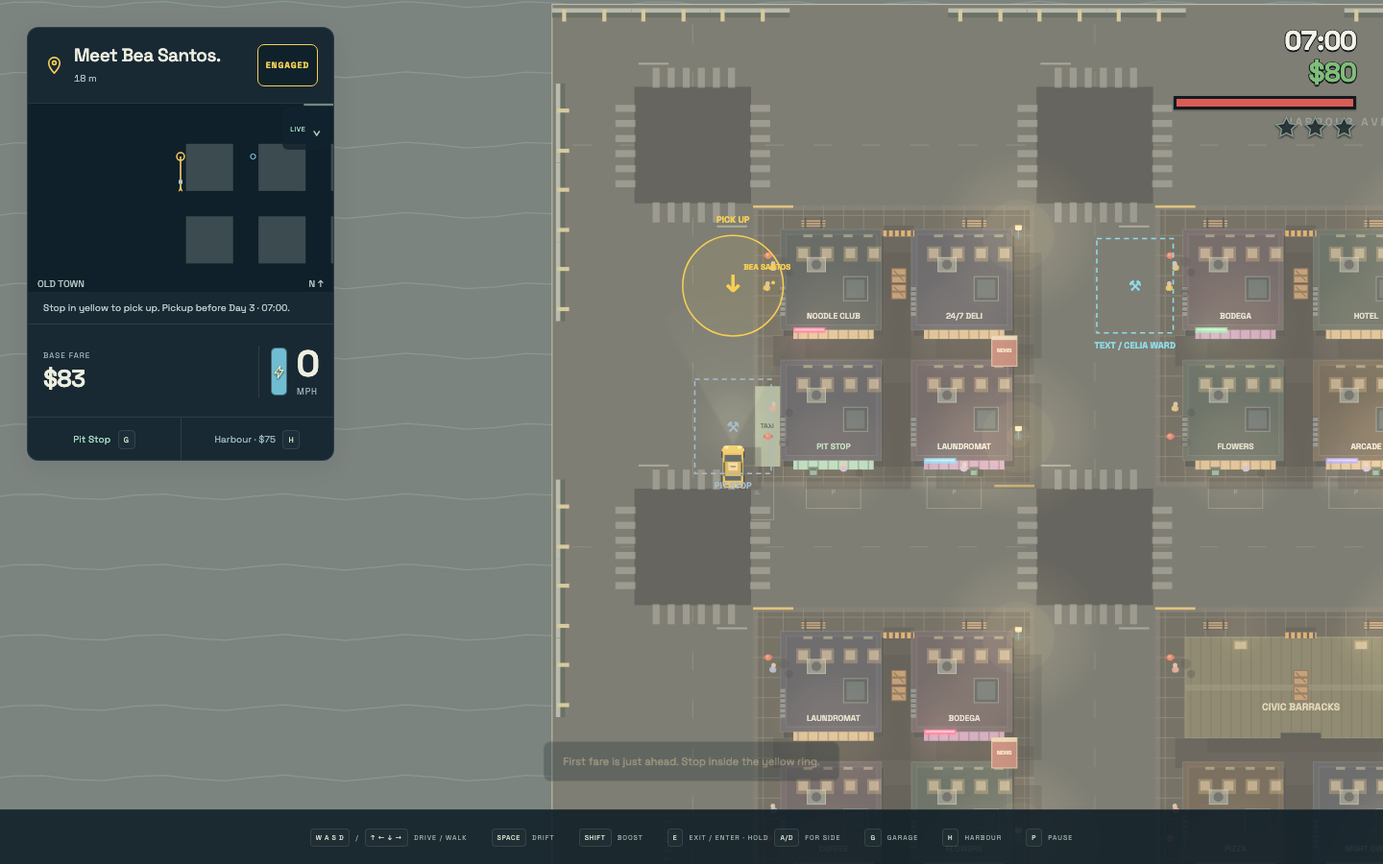
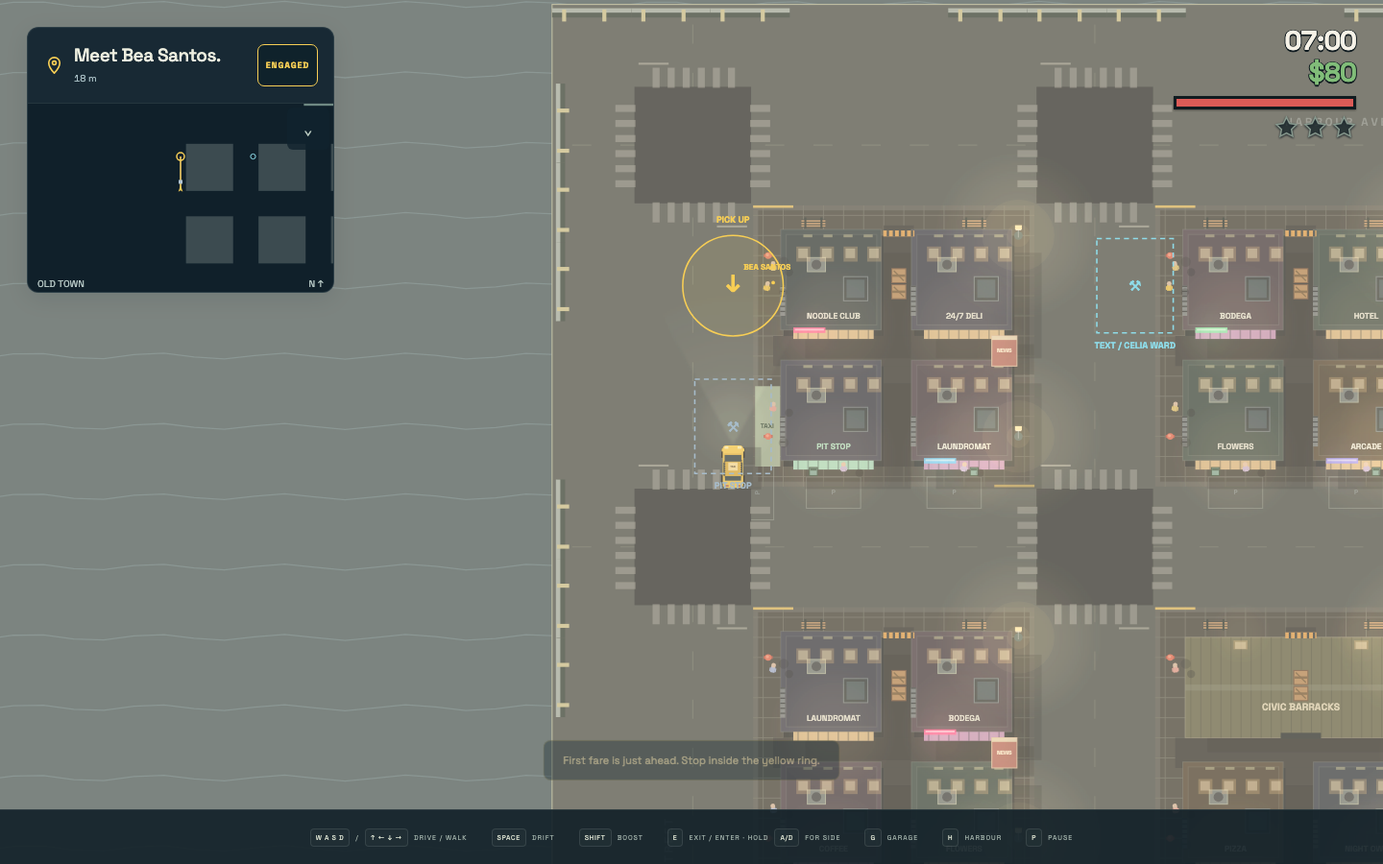
Trim navigation HUD to header and minimap without live label

Changed region(s): [[0.0, 0.3111, 0.25, 0.56], [0.4688, 0.8711, 0.5, 0.9022]]

diff --git a/src/navigation-hud.ts b/src/navigation-hud.ts
@@ -1,7 +1,5 @@
 import type { Game } from './game';
 import { dist } from './physics';
-import { calendarLabel } from './campaign/clock';
-import { PORT_FEE } from './harbour';
 import { characters } from './characters';
 import { showCharacterPortrait } from './story-view';
 
@@ -9,9 +7,6 @@ import { showCharacterPortrait } from './story-view';
 const paths = {
   pin: '<path d="M18 10c0 5-6 11-6 11S6 15 6 10a6 6 0 1 1 12 0Z"/><circle cx="12" cy="10" r="2"/>',
   news: '<path d="M4 5h13v15H4zM17 9h3v11H7M7 9h7M7 13h7M7 17h4"/>',
-  notebook: '<path d="M6 3h14v18H6zM3 7h5M3 12h5M3 17h5M11 7h5M11 11h5M11 15h3"/>',
-  camera: '<path d="M3 7h5l2-3h4l2 3h5v13H3z"/><circle cx="12" cy="13" r="4"/>',
-  boost: '<path d="m14 2-9 12h6l-1 8 9-13h-6z"/>',
 };
 const icon = (name: keyof typeof paths) => `<svg viewBox="0 0 24 24" fill="none" stroke="currentColor" stroke-width="1.7" stroke-linecap="round" stroke-linejoin="round" aria-hidden="true">${paths[name]}</svg>`;
 
@@ -25,15 +20,7 @@ export const navigationHudMarkup = `<aside class="navigation-hud panel" aria-lab
     </div>
     <button id="job-status" class="taxi-state" title="Clear fare guidance and browse dispatch">ENGAGED</button>
   </header>
-  <div class="navigation-chart"><div id="map-content"><canvas id="map" aria-label="Local minimap: yellow is your taxi, circles or edge arrows are destinations, blue squares are the garage or parked rides, red dots are police"></canvas></div><button id="map-toggle" class="map-toggle" aria-expanded="true" aria-controls="map-content" aria-label="Collapse navigation map"><span id="map-status">LIVE</span><span class="map-chevron" aria-hidden="true">⌄</span></button></div>
-  <p id="mission-description" class="navigation-instruction"></p>
-  <div class="job-progress"><i id="job-progress"></i></div>
-  <footer class="navigation-footer">
-    <div id="navigation-fare"><small id="fare-label">BASE FARE</small><strong id="fare"></strong><div id="ride-bonuses"><span id="fast-tip"></span><span id="comfort"></span></div></div>
-    <div id="navigation-tools" hidden><button id="notebook" title="Dispatch notebook" aria-label="Open Dispatch notebook">${icon('notebook')}</button><button id="photo" title="Bookmark café frontage" aria-label="Bookmark café frontage">${icon('camera')}</button></div>
-    <div class="navigation-speed"><div id="boost-meter" class="navigation-boost" role="meter" aria-label="Boost reserve" aria-valuemin="0" aria-valuemax="100" aria-valuenow="100"><i id="boost-bar"></i>${icon('boost')}</div><div><strong id="speed">0</strong><small id="speed-unit">MPH</small></div></div>
-  </footer>
-  <div class="navigation-services"><button id="garage">Pit Stop <kbd>G</kbd></button><button id="harbour">Harbour · $75 <kbd>H</kbd></button></div>
+  <div class="navigation-chart"><div id="map-content"><canvas id="map" aria-label="Local minimap: yellow is your taxi, circles or edge arrows are destinations, blue squares are the garage or parked rides, red dots are police"></canvas></div><button id="map-toggle" class="map-toggle" aria-expanded="true" aria-controls="map-content" aria-label="Collapse navigation map"><span class="map-chevron" aria-hidden="true">⌄</span></button></div>
 </aside>`;
 
 /** View-only state: dispatch, physics, pickups and the saved game remain authoritative. */
@@ -44,36 +31,25 @@ export function navigationHudState(g: Game, fareRouted = true) {
   const vacant = pickup && !fareRouted && !detour && !g.onFoot;
   let status = pickup ? 'ENGAGED' : 'ON BOARD';
   let title = pickup ? parcel ? `Collect ${job.name}'s parcel.` : `Meet ${job.name}.` : `${job.destination}.`;
-  let instruction = pickup ? parcel ? 'Stop in yellow to collect the parcel.' : 'Stop in yellow to pick up.' : 'Stop in green to deliver.';
-  if (pickup && job.missionId && g.campaignContent.jobWindows[job.missionId]) instruction += ` Pickup before ${calendarLabel(g.campaignContent.jobWindows[job.missionId].until)}.`;
   if (parcel && !pickup) status = 'LOADED';
-  if (g.navToGarage) { title = 'Pit Stop.'; instruction = 'Stop at Pit Stop, then press G to enter.'; }
-  if (g.navToNewsroom) { title = `Newsroom · ${g.campaignContent.newsroom.name}`; instruction = 'Stop nearby · Open Notebook to leave copies.'; }
+  if (g.navToGarage) title = 'Pit Stop.';
+  if (g.navToNewsroom) title = `Newsroom · ${g.campaignContent.newsroom.name}`;
   if (harbour) {
     const admitted = g.harbour.vehicleId === g.player.id;
     title = admitted ? g.harbour.exchanged ? 'Take the exit.' : 'Container C-76.' : g.policeVisible ? 'Lose the tail.' : g.portGateNear ? 'Pay security.' : 'Northstar Harbour.';
-    instruction = g.harbourPrompt ?? (admitted ? g.harbour.exchanged ? 'Fresh car ready · follow cyan to the exit.' : 'Stop fully inside container C-76, out of police sight.' : `Follow cyan · Entry and car swap $${PORT_FEE}.`);
   }
   if (g.onFoot) {
     status = 'ON FOOT'; title = g.tumble ? 'Brace for impact.' : 'Find a ride.';
-    instruction = g.tumble ? 'Recover from the roll before taking another ride.' : g.enterableCar ? 'E / action button to take this ride.' : 'Walk to a blue marker to find a parked ride.';
   }
-  if (vacant) { status = 'VACANT'; instruction = 'Dispatch for a fare · Bookings for texts · Newsroom for a lead.'; }
+  if (vacant) status = 'VACANT';
   return {
-    status, title, instruction, vacant, routeVisible: !vacant,
+    status, title, vacant, routeVisible: !vacant,
     distance: Math.round(dist(g.actor.position, g.target)),
     arriving: !pickup && !detour && !g.onFoot && dist(g.actor.position, g.target) < 150,
-    fareLabel: harbour ? 'ENTRY + SWAP' : 'BASE FARE',
-    fare: harbour ? g.harbour.vehicleId === g.player.id ? 'PAID' : `$${PORT_FEE}` : `$${job.fare}`,
-    bonuses: !pickup && !detour && !g.onFoot,
-    tip: job.elapsed < job.time ? `FAST TIP · ${Math.ceil(job.time - job.elapsed)}s` : 'NO RUSH · BASE FARE',
-    comfort: `${Math.round(job.comfort)}% ${parcel ? 'intact' : 'comfort'}`,
-    progress: g.onFoot || vacant ? 0 : harbour ? g.harbour.progress / 2.5 : job.wait / 0.8,
-    speed: Math.round(g.speed * 2.236936), boost: Math.max(0, Math.min(100, g.boost)),
   };
 }
 
-export function bindNavigationHud(root: HTMLElement, currentGame: () => Game, actions: { texts: () => void; notebook: () => void; focus: () => void; routeVisibility: (visible: boolean) => void }) {
+export function bindNavigationHud(root: HTMLElement, currentGame: () => Game, actions: { texts: () => void; focus: () => void; routeVisibility: (visible: boolean) => void }) {
   const get = (id: string) => root.querySelector<HTMLElement>(`#${id}`)!;
   const panel = root.querySelector<HTMLElement>('.navigation-hud')!;
   const views = new WeakMap<Game, { job: Game['job']; routed: boolean }>();
@@ -96,9 +72,7 @@ export function bindNavigationHud(root: HTMLElement, currentGame: () => Game, ac
     view().routed = !view().routed; refresh(); actions.focus();
   });
   get('texts').addEventListener('click', actions.texts);
-  get('notebook').addEventListener('click', actions.notebook);
   get('newsroom').addEventListener('click', () => { currentGame().navigateNewsroom(); refresh(); actions.focus(); });
-  get('photo').addEventListener('click', () => { const g = currentGame(); if (g.mode === 'playing' && !g.observeScene()) g.notify('Stop near the café frontage to bookmark an observation.'); actions.focus(); });
   get('map-toggle').addEventListener('click', () => {
     const collapsed = !get('map-content').hidden;
     get('map-content').hidden = collapsed; panel.classList.toggle('collapsed', collapsed);
@@ -116,26 +90,14 @@ export function bindNavigationHud(root: HTMLElement, currentGame: () => Game, ac
     }
     panel.dataset.state = state.status.toLowerCase().replace(' ', '-');
     get('navigation-destination').hidden = state.vacant; get('navigation-contacts').hidden = !state.vacant;
-    const toolsVisible = state.vacant || g.onFoot || g.navToNewsroom;
-    get('navigation-fare').hidden = toolsVisible; get('navigation-tools').hidden = !toolsVisible;
     get('job-status').textContent = state.status;
     const canClear = g.mode === 'playing' && g.job.stage === 'pickup' && !g.onFoot && !g.navToGarage && !g.navToNewsroom && !g.navToHarbour && g.harbour.vehicleId !== g.player.id;
     (get('job-status') as HTMLButtonElement).disabled = !canClear;
     get('job-status').title = canClear ? state.vacant ? 'Route the next fare' : 'Clear fare guidance and browse dispatch' : state.status;
     get('mission-title').textContent = state.title;
     get('distance').textContent = `${state.distance} m${state.arriving ? ' · Arriving soon' : ''}`;
-    get('mission-description').textContent = state.instruction;
-    get('fare-label').textContent = state.fareLabel; get('fare').textContent = state.fare;
-    get('ride-bonuses').hidden = !state.bonuses;
-    get('fast-tip').textContent = state.tip; get('comfort').textContent = state.comfort;
-    get('job-progress').style.width = `${Math.max(0, Math.min(1, state.progress)) * 100}%`;
-    get('speed').textContent = String(state.speed); get('speed-unit').textContent = g.onFoot ? 'WALK' : 'MPH';
-    get('boost-bar').style.height = `${state.boost}%`;
-    get('boost-meter').setAttribute('aria-valuenow', String(state.boost));
-    get('boost-meter').hidden = g.onFoot; panel.classList.toggle('boosting', !g.onFoot && g.controls.boost);
-    get('map-status').textContent = g.stars ? 'PURSUIT' : 'LIVE';
     (get('dispatch') as HTMLButtonElement).disabled = g.mode !== 'playing';
-    for (const id of ['texts', 'newsroom', 'notebook', 'photo']) (get(id) as HTMLButtonElement).disabled = !g.campaignEnabled || g.mode !== 'playing';
+    for (const id of ['texts', 'newsroom']) (get(id) as HTMLButtonElement).disabled = !g.campaignEnabled || g.mode !== 'playing';
     return state;
   }
   return Object.assign(refresh, { routeFare });

diff --git a/src/navigation-hud.css b/src/navigation-hud.css
@@ -13,39 +13,14 @@
 .taxi-state{flex-shrink:0;font-size:9px;font-weight:700;letter-spacing:.8px;min-width:44px;min-height:44px;padding:8px;border:1px solid var(--nav-accent);border-radius:7px;color:var(--nav-accent);background:#081b2280}
 .taxi-state:disabled{opacity:1}
 #navigation-contacts{display:flex;gap:8px;align-items:center}
-#navigation-contacts button,#navigation-tools button{display:grid;place-items:center;width:44px;height:44px;flex-shrink:0;padding:0;border:1px solid var(--border);border-radius:7px;background:#ffffff04;color:#b9ccd1}
+#navigation-contacts button{display:grid;place-items:center;width:44px;height:44px;flex-shrink:0;padding:0;border:1px solid var(--border);border-radius:7px;background:#ffffff04;color:#b9ccd1}
 #navigation-contacts .story-portrait{width:42px;height:42px;border:0;border-radius:6px;aspect-ratio:1}
 .navigation-hud button:hover:not(:disabled){background:#ffffff0d;color:var(--gold)}
 .navigation-hud button:disabled:not(.taxi-state){opacity:.35}
 .navigation-chart{position:relative;border-top:1px solid var(--border);background:#0b1b2490}
 .navigation-hud #map{display:block;width:100%;height:196px;margin:0;padding:0}
-.navigation-hud .map-toggle{position:absolute;top:4px;right:4px;width:auto;min-width:44px;min-height:44px;gap:7px;padding:0 8px;border-radius:6px;background:#10222dcc;letter-spacing:.6px}
-.navigation-hud .map-toggle #map-status{display:block;margin:0;font-size:7px}
+.navigation-hud .map-toggle{position:absolute;top:4px;right:4px;width:auto;min-width:44px;min-height:44px;justify-content:center;padding:0 8px;border-radius:6px;background:#10222dcc;letter-spacing:.6px}
 .navigation-hud.collapsed .navigation-chart{height:44px}
-.navigation-instruction{margin:0;padding:9px 16px;color:#b7c7c8;font-size:10px;line-height:1.5;min-height:33px;border-bottom:1px solid var(--border)}
-.navigation-hud .job-progress{height:2px;margin:0;background:transparent}
-.navigation-hud .job-progress i{display:block;height:100%;background:var(--nav-accent)}
-.navigation-footer{display:flex;gap:12px;justify-content:space-between;align-items:center;min-height:94px;padding:12px 16px}
-#navigation-fare{min-width:0}
-#navigation-fare>small{display:block;color:#9bb1b9;font-size:8px;letter-spacing:1px}
-#fare{display:block;font-size:25px;font-weight:600;letter-spacing:-.7px;margin-top:3px}
-#ride-bonuses{display:flex;flex-wrap:wrap;gap:4px;margin-top:6px}
-#ride-bonuses span{padding:4px 5px;border:1px solid #f7ce5544;border-radius:4px;color:var(--gold);font-size:8px;white-space:nowrap}
-#ride-bonuses #comfort{color:var(--mint);border-color:#a3ddc240}
-#navigation-tools{display:flex;gap:8px}
-.navigation-speed{display:flex;gap:10px;align-items:center;border-left:1px solid var(--border);padding-left:12px;flex-shrink:0;font-variant-numeric:tabular-nums}
-.navigation-speed>div:last-child{text-align:right}
-.navigation-speed strong{display:block;font-size:38px;font-weight:600;line-height:1;letter-spacing:-1.5px}
-.navigation-speed small{display:block;color:#9bb1b9;font-size:9px;letter-spacing:1px;margin-top:4px}
-.navigation-boost{position:relative;width:17px;height:50px;border:1px solid #80bcca55;border-radius:5px;overflow:hidden;background:#28404b}
-.navigation-boost i{position:absolute;inset:auto 0 0;background:#70bdd1}
-.navigation-boost svg{position:absolute;top:15px;left:0;width:15px;height:19px;color:#fff4b2;filter:drop-shadow(0 1px 1px #10222d)}
-.boosting .navigation-boost{border-color:#b9ecf6;box-shadow:0 0 9px #70bdd133}
-.navigation-services{display:grid;grid-template-columns:1fr 1fr;border-top:1px solid var(--border)}
-.navigation-services button{min-height:44px;border:0;background:none;color:#9fb8c1;font-size:10px}
-.navigation-services button+button{border-left:1px solid var(--border)}
-.navigation-services button.near{color:var(--mint)}
-.navigation-services kbd{font-size:8px;margin-left:5px}
 /* Preserve the existing right-hand personal status and conversation layout. */
 .toast{max-width:calc(100% - 440px)}
 @media(max-width:700px), (max-width:1000px) and (max-height:500px), (pointer:coarse) and (max-width:1200px){
@@ -61,21 +36,6 @@
   .navigation-hud[data-state="vacant"] .taxi-state{font-size:7px;padding:3px;letter-spacing:0}
   #navigation-contacts button{width:44px}
   .navigation-hud #map{height:134px;padding:0}
-  .navigation-hud .map-toggle #map-status{display:none}
-  .navigation-instruction{font-size:9px;padding:7px 10px;min-height:41px}
-  .navigation-footer{padding:9px 10px;min-height:80px;gap:7px}
-  #fare{font-size:21px}
-  #navigation-fare>small{font-size:7px}
-  #ride-bonuses{gap:3px;margin-top:4px}
-  #ride-bonuses span{font-size:7px;padding:3px}
-  .navigation-speed{gap:6px;padding-left:8px}
-  .navigation-speed strong{font-size:30px}
-  .navigation-speed small{font-size:8px}
-  .navigation-boost{width:15px;height:43px}
-  .navigation-boost svg{width:13px;top:12px}
-  #navigation-tools{gap:5px}
-  .navigation-services button{font-size:9px}
-  .navigation-services kbd{display:none}
   .story,.story.collapsed,.roadside{top:calc(var(--top-height) + 144px);left:auto;right:var(--edge-right);width:calc(100vw - var(--edge-left) - var(--edge-right) - var(--navigation-width) - 12px);max-width:360px;max-height:calc(100dvh - var(--top-height) - var(--stick-size) - var(--edge-bottom) - 210px)}
   .story-body{display:flow-root}
   .story-speaker{float:left;width:44px;margin:0 9px 8px 0}
@@ -88,17 +48,10 @@
   .navigation-header{min-height:52px;padding:4px 10px}
   #navigation-contacts{flex-wrap:nowrap}
   .navigation-hud #map{height:85px}
-  .navigation-instruction{min-height:0;padding:5px 10px}
-  .navigation-footer{min-height:67px;padding:6px 10px}
-  .navigation-services button{min-height:44px}
   .story,.story.collapsed,.roadside{left:calc(var(--edge-left) + 252px);right:auto;top:calc(var(--top-height) + 8px);width:calc(100vw - var(--edge-left) - var(--edge-right) - 252px - var(--dash-width) - 12px);max-height:calc(100dvh - var(--top-height) - var(--stick-size) - var(--edge-bottom) - 28px)}
   .context-action{left:auto;right:var(--edge-right);max-width:150px}
   .toast{left:calc(var(--edge-left) + 252px);width:calc(100vw - var(--edge-left) - var(--edge-right) - 264px);max-width:360px}
 }
 @media(max-width:360px) and (min-height:501px){
   .navigation-hud #map{height:112px}
-  .navigation-speed strong{font-size:25px}
-  .navigation-speed{padding-left:5px;gap:4px}
-  .navigation-footer{padding:8px;gap:5px}
-  #navigation-tools{display:grid;grid-template-columns:44px;gap:3px}
 }

diff --git a/src/navigation-hud.test.ts b/src/navigation-hud.test.ts
@@ -7,25 +7,28 @@ describe('consolidated navigation HUD', () => {
     expect(navigationHudMarkup.match(/id="map"/g)).toHaveLength(1);
     expect(navigationHudMarkup).not.toContain('class="player-hud"');
     expect(navigationHudMarkup).not.toMatch(/https?:|<image|target|lightning/i);
-    for (const id of ['dispatch', 'texts', 'newsroom', 'notebook', 'photo', 'garage', 'harbour', 'boost-meter', 'speed']) expect(navigationHudMarkup).toContain(`id="${id}"`);
+    for (const id of ['dispatch', 'texts', 'newsroom', 'job-status', 'mission-title', 'distance', 'map-toggle']) expect(navigationHudMarkup).toContain(`id="${id}"`);
+  });
+
+  it('ends at the minimap without instructions, readouts or service buttons below it', () => {
+    expect(navigationHudMarkup).toMatch(/<\/button><\/div>\s*<\/aside>$/);
+    for (const id of ['mission-description', 'job-progress', 'fare', 'fast-tip', 'comfort', 'notebook', 'photo', 'garage', 'harbour', 'boost-meter', 'speed']) expect(navigationHudMarkup).not.toContain(`id="${id}"`);
+  });
+
+  it('keeps an accessible collapse chevron without a live or pursuit label', () => {
+    expect(navigationHudMarkup).not.toMatch(/map-status|LIVE|PURSUIT/);
+    expect(navigationHudMarkup).toContain('aria-label="Collapse navigation map"');
+    expect(navigationHudMarkup).toContain('class="map-chevron"');
   });
 
   it('distinguishes engaged, on-board and vacant without mutating the fare', () => {
     const game = new Game(undefined, false);
     const before = structuredClone(game.job);
-    expect(navigationHudState(game)).toMatchObject({ status: 'ENGAGED', vacant: false, bonuses: false, routeVisible: true });
-    expect(navigationHudState(game, false)).toMatchObject({ status: 'VACANT', vacant: true, bonuses: false, routeVisible: false });
+    expect(navigationHudState(game)).toMatchObject({ status: 'ENGAGED', vacant: false, routeVisible: true });
+    expect(navigationHudState(game, false)).toMatchObject({ status: 'VACANT', vacant: true, routeVisible: false });
     expect(game.job).toEqual(before);
     game.job.stage = 'dropoff';
-    expect(navigationHudState(game, false)).toMatchObject({ status: 'ON BOARD', vacant: false, bonuses: true, routeVisible: true });
-  });
-
-  it('shows the actual base fare and non-failing tip countdown only on board', () => {
-    const game = new Game(undefined, false);
-    Object.assign(game.job, { stage: 'dropoff', fare: 129, time: 60, elapsed: 2, comfort: 76.4 });
-    expect(navigationHudState(game)).toMatchObject({ fare: '$129', tip: 'FAST TIP · 58s', comfort: '76% comfort', bonuses: true });
-    game.job.elapsed = 61;
-    expect(navigationHudState(game)).toMatchObject({ fare: '$129', tip: 'NO RUSH · BASE FARE', bonuses: true });
+    expect(navigationHudState(game, false)).toMatchObject({ status: 'ON BOARD', title: `${game.job.destination}.`, vacant: false, routeVisible: true });
   });
 
   it('keeps parcel terminology and arrival guidance accurate', () => {
@@ -34,19 +37,19 @@ describe('consolidated navigation HUD', () => {
     expect(navigationHudState(game).title).toContain('parcel');
     game.job.stage = 'dropoff';
     game.job.dropoff = { ...game.actor.position };
-    expect(navigationHudState(game)).toMatchObject({ status: 'LOADED', comfort: '100% intact', distance: 0, arriving: true });
+    expect(navigationHudState(game)).toMatchObject({ status: 'LOADED', distance: 0, arriving: true });
   });
 
-  it('overrides vacant guidance for detours and never leaks passenger bonuses', () => {
+  it('overrides vacant guidance for detours', () => {
     const game = new Game(undefined, false);
     game.navToGarage = true;
-    expect(navigationHudState(game, false)).toMatchObject({ title: 'Pit Stop.', vacant: false, routeVisible: true, bonuses: false });
+    expect(navigationHudState(game, false)).toMatchObject({ title: 'Pit Stop.', vacant: false, routeVisible: true });
     game.navToGarage = false; game.navToNewsroom = true;
     expect(navigationHudState(game, false).title).toContain('Newsroom');
     game.navToNewsroom = false; game.navToHarbour = true;
-    expect(navigationHudState(game, false)).toMatchObject({ title: 'Northstar Harbour.', fareLabel: 'ENTRY + SWAP', fare: '$75', routeVisible: true });
-    game.harbour.vehicleId = game.player.id; game.harbour.progress = 1.25;
-    expect(navigationHudState(game, false)).toMatchObject({ title: 'Container C-76.', fare: 'PAID', progress: 0.5 });
+    expect(navigationHudState(game, false)).toMatchObject({ title: 'Northstar Harbour.', routeVisible: true });
+    game.harbour.vehicleId = game.player.id;
+    expect(navigationHudState(game, false).title).toBe('Container C-76.');
     game.harbour.exchanged = true;
     expect(navigationHudState(game).title).toBe('Take the exit.');
   });
@@ -54,16 +57,8 @@ describe('consolidated navigation HUD', () => {
   it('follows the actor on foot and during bailout rather than showing fare details', () => {
     const game = new Game(undefined, false);
     game.onFoot = true;
-    expect(navigationHudState(game, false)).toMatchObject({ status: 'ON FOOT', title: 'Find a ride.', routeVisible: true, vacant: false, bonuses: false, progress: 0 });
+    expect(navigationHudState(game, false)).toMatchObject({ status: 'ON FOOT', title: 'Find a ride.', routeVisible: true, vacant: false });
     game.tumble = { elapsed: 0, duration: 1, speed: 10, side: -1, bike: false, grounded: false };
     expect(navigationHudState(game).title).toBe('Brace for impact.');
-  });
-
-  it('converts physical speed to mph and bounds the boost reserve', () => {
-    const game = new Game(undefined, false);
-    game.player.body.velocity = { x: 8.9408, y: 0 }; game.boost = 25.5;
-    expect(navigationHudState(game)).toMatchObject({ speed: 20, boost: 25.5 });
-    game.boost = -4; expect(navigationHudState(game).boost).toBe(0);
-    game.boost = 150; expect(navigationHudState(game).boost).toBe(100);
   });
 });

diff --git a/src/main.ts b/src/main.ts
@@ -52,7 +52,7 @@ const renderer = new Renderer($('city') as HTMLCanvasElement, $('map') as HTMLCa
 const refreshStory = bindStoryView($('app'), () => game.dialogue, () => $('city').focus(), () => game.recordDialogue());
 const { refresh: refreshInbox, open: openInbox } = bindMissionInbox($('app'), () => game, () => $('city').focus(), () => !scenarioPreviewMode, () => refreshNavigationHud.routeFare());
 const refreshPlayerHud = bindPlayerHud($('app'), () => game);
-const refreshNavigationHud = bindNavigationHud($('app'), () => game, { texts: openInbox, notebook: openNotebook, focus: () => $('city').focus(), routeVisibility: visible => { renderer.navigationRouteVisible = visible; } });
+const refreshNavigationHud = bindNavigationHud($('app'), () => game, { texts: openInbox, focus: () => $('city').focus(), routeVisibility: visible => { renderer.navigationRouteVisible = visible; } });
 let helpOpen = false;
 let statsOpen = false;
 let notebookOpen = false;
@@ -135,7 +135,6 @@ function hud() {
   document.querySelectorAll<HTMLButtonElement>('[data-key]').forEach(button => { button.disabled = g.onFoot || g.mode !== 'playing'; });
   document.querySelector('.controls>span:nth-child(2)')!.lastChild!.textContent = bike && !g.onFoot ? ' REAR BRAKE' : ' DRIFT';
   document.querySelector<HTMLButtonElement>('[data-key="handbrake"]')!.textContent = bike && !g.onFoot ? 'BRAKE' : 'DRIFT';
-  $('map-status').textContent = g.stars ? 'PURSUIT' : 'LIVE'; $('garage').classList.toggle('near', g.garageNear);
   $('toast').textContent = g.toast; $('toast').className = `toast ${g.toastTime > 0 && g.mode === 'playing' ? 'visible' : ''} ${g.toastKind}`;
   const damage = g.player.damage;
   $('interact').textContent = g.onFoot ? g.enterableCar?.model === 'motorcycle' && (g.enterableCar.dynamics as MotorcycleDynamics).fallen ? 'Lift motorbike' : g.enterableCar?.definition.graphics.sprite === 'motorcycle' ? 'Ride motorbike' : 'Get in' : g.pendingExit ? bike ? 'Jumping…' : 'Opening door…' : damage.status === 'burning' ? 'Bail out!' : g.speed > 1.2 ? bike ? 'Jump off' : 'Jump out' : bike ? 'Dismount' : 'Get out';
@@ -150,7 +149,6 @@ function hud() {
   if (g.harbourPrompt && g.mode === 'playing' && damage.status !== 'burning') {
     $('interact').hidden = !g.portGateNear; $('interact').textContent = `Pay $${PORT_FEE}`; ($('interact') as HTMLButtonElement).disabled = false;
   }
-  $('harbour').classList.toggle('near', g.navToHarbour || g.harbour.vehicleId === g.player.id);
   // Keep conversations out of emergencies and harbour interactions, without a warning banner.
   const drivingEmergency = damage.status === 'burning' || damage.status === 'wreck' || bike && !motorcycleEngineWorks(damage);
   refreshStory(g.mode === 'playing' && !g.onFoot && !g.player.sinking && !drivingEmergency && !g.harbourPrompt && $('roadside').hidden);
@@ -165,8 +163,6 @@ $('interact').addEventListener('click', interact); $('tow').addEventListener('cl
 // Lazy browser activation. Merely loading the page never creates an AudioContext.
 document.addEventListener('pointerdown', event => { if (event.isTrusted) void audio.unlock(); }, { capture: true });
 function pause() { if (game.mode === 'playing') { statsOpen = notebookOpen = false; game.setMode('paused'); } else if (game.mode === 'paused' || game.mode === 'garage') { realtime(); externalClock = false; helpOpen = false; statsOpen = notebookOpen = false; game.setMode('playing'); } }
-$('harbour').addEventListener('click', () => { game.navigateHarbour(); hud(); });
-$('garage').addEventListener('click', () => game.garage());
 document.addEventListener('contextmenu', event => { if (event.target instanceof Element && !event.target.closest('input, select, textarea, .audio-credits a')) event.preventDefault(); });
 window.addEventListener('keydown', e => {
   if (mapEditor?.handleKey(e)) return;

diff --git a/HOW_TO.md b/HOW_TO.md
@@ -12,8 +12,8 @@ Taxi Chaos runs in a browser or as the standalone `dist/index.html`. It works of
 | E / mobile action | Exit or mount a nearby vehicle; pay at harbour security |
 | A or D while pressing E | Choose which side to exit a moving vehicle |
 | R | Optional tow and repair when near a wreck |
-| H / Harbour button | Set or cancel a route to harbour security |
-| G / Garage button | Set or cancel a garage route; enter when stopped nearby |
+| H | Set or cancel a route to harbour security |
+| G | Set or cancel a garage route; enter when stopped nearby |
 | P / Escape | Pause or resume |
 | M | Mute or unmute sound effects |
 | F2 | Open scenarios and the inspector |
@@ -41,9 +41,7 @@ commit only when you stop at the deliberately selected pickup. Pause →
 continues during travel and at arrival. Free driving continues after the campaign.
 
 The **Pause → Dispatch notebook** keeps signed receipts, ride conversations
-and documents. The navigation card's notebook button also opens it while vacant,
-on foot or routed to the newsroom. The camera button bookmarks café frontage
-when you are stopped nearby and the observation is available.
+and documents.
 The café changes on the calendar whether or not you visit it. Search your own
 records to revisit the details.
 
@@ -59,21 +57,21 @@ remain in the notebook. The last edition is **Day 14 at 06:00**. See the
 Use the radar and navigation markers to find jobs and destinations. Routes follow roads, and fare distance and timing account for the road network.
 
 The **top-left navigation card** combines your current job and local minimap.
-**ENGAGED** means pickup guidance is selected; **ON BOARD** shows the destination,
-base fare, fast-tip countdown and comfort. Speed and boost reserve sit below the
-map. Clock, cash, personal health and police stars stay separate at the top right.
+**ENGAGED** means pickup guidance is selected; **ON BOARD** shows the destination.
+The card ends at the map, without lower readouts or service buttons. Clock, cash,
+personal health and police stars stay separate at the top right.
 
 After an ordinary delivery, **VACANT** shows dispatch, booking and newsroom
 shortcuts. Tap **ENGAGED** before pickup to hide fare guidance and browse these
 shortcuts; tap the dispatcher portrait or **VACANT** to route the next fare.
 Bookings opens your texts; the newspaper routes to the newsroom. Hiding guidance
 does not cancel a booking or prevent a physical pickup. The map chevron collapses
-only the map, leaving the job and driving readouts visible.
+only the map, leaving the header visible.
 
 - **Eastern bridges and highlands:** take the northern crossing to Pine Woods or the southern crossing to Eagle Highlands. Curved roads connect Pine Junction, Fern Hollow, Highland Lodge, and Eagle Lookout. F2 → **Eastern bridges / highlands** starts at Pine Bridge with a delivery to Eagle Lookout. See [screenshots and map notes](docs/eastern-highlands.md).
 - **Woodland villas and Fairway Country Club:** explore the southern loop through Millionaires Row, Woodland Estates, and Cedar Woods, with private villa drives and a golf club. F2 → **Woodland villas / golf club** starts in Woodland Estates with a passenger for Fairway Club. See the [map overview](docs/woodland-estates.md).
 - **Sunset Beach and Ocean Walk:** head to the southern waterfront for soft sand, breakable beach furniture, and a promenade between the beach and hotels. Road tyres lose traction in sand; the beach patrol pickup has off-road tyres. F2 → **Sunset Beach / soft sand**, **Beach / off-road pickup**, or **Ocean Walk / hotel promenade**. See the [beach guide](docs/beach.md).
-- **Northstar Harbour:** press **H** or tap **Harbour · $75** to navigate to security. Pay while in a car and out of police sight to enter and exchange your vehicle for a healthy one, clearing police heat. Wallet, upgrades, and any current fare carry over. F2 → **Northstar Harbour / car exchange**. See the [harbour guide](docs/harbour.md).
+- **Northstar Harbour:** press **H** to navigate to security. Pay while in a car and out of police sight to enter and exchange your vehicle for a healthy one, clearing police heat. Wallet, upgrades, and any current fare carry over. F2 → **Northstar Harbour / car exchange**. See the [harbour guide](docs/harbour.md).
 - **Commercial traffic:** delivery vans, flatbeds, freight trucks, and fuel trucks share the roads as NPCs. F2 → **Vans / freight traffic** or **Flammable cargo / impact**. See the [vehicle guide](docs/vehicles.md).
 
 ## Settings and sound
